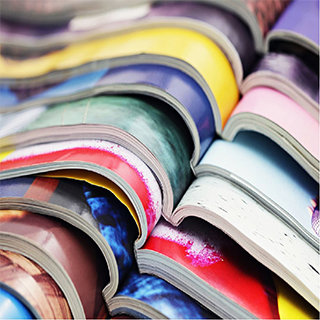
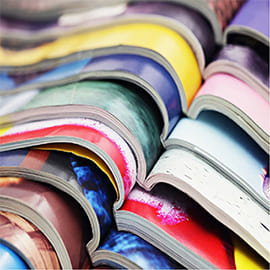
Compressions images 1 à 4

diff --git a/style.css b/style.css
@@ -877,8 +877,6 @@ h4 {
     overflow-x: hidden;
     position: relative;
   }
-  .bloc {
-  }
 
   .bloc-group,
   .bloc-group .bloc {
